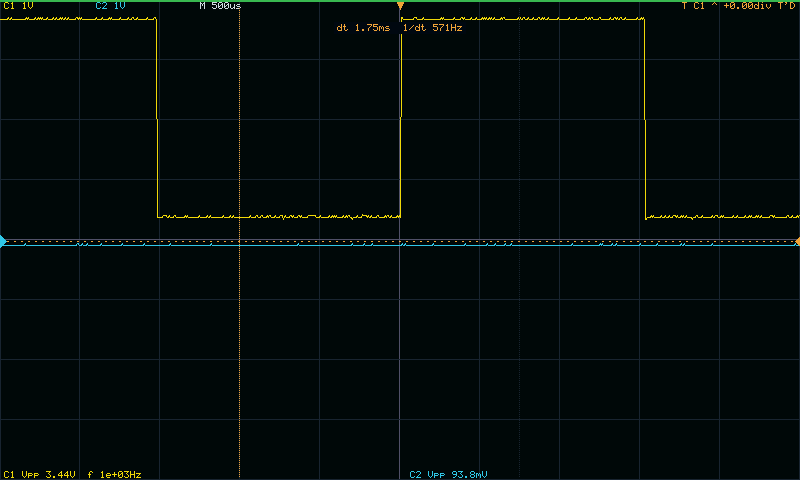
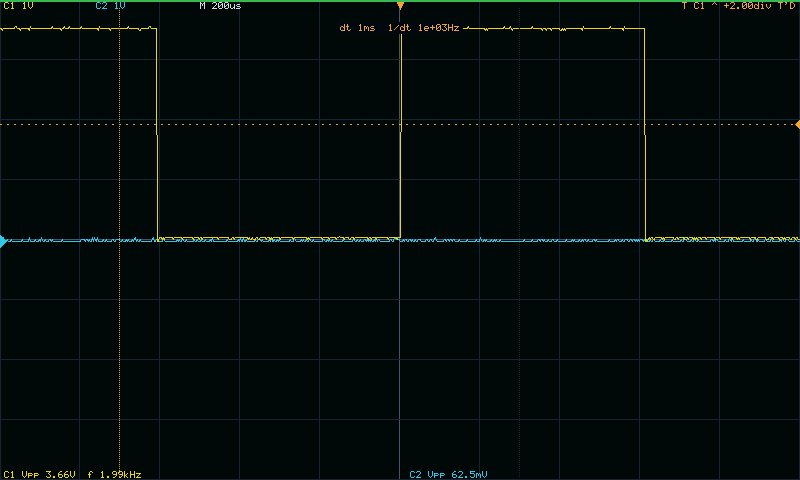
docs: README showcase — separate Host UI and instrument sections with screenshots
Restructure the README around two showcase sections, each with captioned
screenshots captured live from the real SDS1102CML+:

- "The host UI (web app)": hero Y-T shot (cursors + measurements) plus a
  per-channel FFT (20 kHz square → distinct harmonic peaks) and one-click SPI
  protocol decode with per-channel FFT peak lists.
- "On the instrument (LCD + front panel)": the calibrated on-screen MEASURE
  panel, on-screen cursors with a Δt/1÷Δt readout, and the CHANNEL softkey menu
  (coupling + probe, with the 10×/AC HUD tags).

Screenshots use good, representative test data (clean squares at the right
timebase, a higher-frequency square for a legible FFT, SPI for decode). Replaces
the single web-ui.png hero.

diff --git a/README.md b/README.md
@@ -23,7 +23,8 @@ hardware does and how the firmware must behave*; the implementation in
 > other hardware. There is **no warranty** (see [LICENSE](LICENSE)); you are
 > responsible for your instrument.
 
-![The web UI driving a real SDS1102CML+](docs/images/web-ui.png)
+![The web UI driving a real SDS1102CML+](docs/images/host-yt.png)
+<sub>The web UI (Y-T mode, cursors on, live auto-measurements) driving a real SDS1102CML+.</sub>
 
 ## Highlights
 
@@ -66,15 +67,34 @@ also collapse the other channel's gain). This firmware therefore models coupling
 passes through — which is safe, always works, and matches on both the web and the LCD.
 See [`specs/06-vertical-and-analog.md`](specs/06-vertical-and-analog.md) §6.
 
-## On the instrument itself
+## The host UI (web app)
 
-The firmware isn't only a web front end — it drives the scope's own LCD and front
-panel too. Front-panel softkeys toggle a calibrated on-screen MEASURE panel and
-on-screen cursors, both computed from the same measurement core as the web UI:
+Served at `http://<device>:8080/` — a responsive, single-page control surface for
+the whole instrument. Y-T with direct-manipulation cursors and live measurements
+(the [screenshot above](docs/images/host-yt.png)), an X-Y mode, a per-channel FFT
+with clickable peak markers, waveform math and reference overlays, and one-click
+protocol decode with auto-detection.
 
-| On-screen MEASURE panel | On-screen cursors |
+| Per-channel FFT | Protocol decode (auto-detected) |
 |---|---|
-| ![LCD MEASURE panel](docs/images/lcd-measure.png) | ![LCD cursors](docs/images/lcd-cursors.png) |
+| [![FFT view](docs/images/host-fft.png)](docs/images/host-fft.png) | [![Protocol decode](docs/images/host-decode.png)](docs/images/host-decode.png) |
+| Spectra of a 20 kHz square — its odd-harmonic comb, with the strongest peaks tagged. | UART/I²C/SPI decode; here it auto-detected SPI (CLK=C2, DATA=C1), with per-channel FFT peak lists alongside. |
+
+Every acquisition control lives in the footer (run/stop, trigger, timebase,
+per-channel V/div · coupling · probe · offset, acquire mode + memory depth), and
+PNG / calibrated-CSV export is one click away.
+
+## On the instrument (LCD + front panel)
+
+The firmware isn't only a web front end — it drives the scope's own 800×480 LCD and
+front-panel matrix, so it's a self-contained instrument. Front-panel softkeys drive
+a menu system, a calibrated on-screen MEASURE panel and on-screen cursors (both from
+the *same* measurement core as the web UI), and per-channel coupling/probe pages.
+
+| On-screen MEASURE panel | On-screen cursors | Front-panel menu |
+|---|---|---|
+| [![LCD MEASURE panel](docs/images/lcd-measure.png)](docs/images/lcd-measure.png) | [![LCD cursors](docs/images/lcd-cursors.png)](docs/images/lcd-cursors.png) | [![LCD channel menu](docs/images/lcd-menu.png)](docs/images/lcd-menu.png) |
+| Calibrated Vpp/Vamp/Vrms/Vavg + timing, matching the web. | Time cursors with a live Δt / 1÷Δt readout. | The CHANNEL softkey page — coupling + probe per channel, with the "10×"/"AC" HUD tags. |
 
 ## Quick start
 
